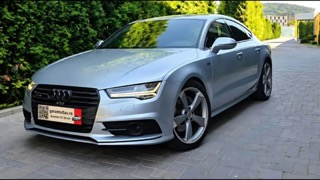
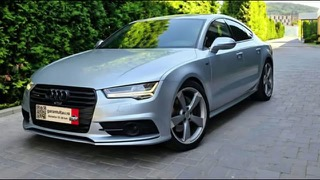
feature/audi-a7-orbit - Replace the Audi A7 photo cascade with a generated 360 orbit

diff --git a/src/lib/spin360.ts b/src/lib/spin360.ts
@@ -8,13 +8,13 @@ export const SPIN_360: Record<string, { frames: number; small: number; ext?: "jp
   "vw-touareg-4x4-automat-2008-296000-9136006809": { frames: 245, small: 123 },
   "dacia-sandero-stepway-2016-156000-2110006809": { frames: 248, small: 124 },
   "audi-a6-2015-0-6008006809": { frames: 248, small: 124 },
-  "audi-a7-competition-2015-0-4648006809": { frames: 5, small: 5, ext: "jpg" },
+  "audi-a7-competition-2015-0-4648006809": { frames: 48, small: 48, ext: "jpg" },
   "bmw-x1-x-2013-24300-7838006809": { frames: 247, small: 124 },
   "bmw-x6-2010-278000-1520006809": { frames: 247, small: 124 },
   "suzuki-vitara-2011-0-3444006809": { frames: 211, small: 106 },
 };
 
-const V = "v=20261025-q60";
+const V = "v=20261116-a7";
 
 export type SpinSheet = { url: string; first: number; frames: number };
 
